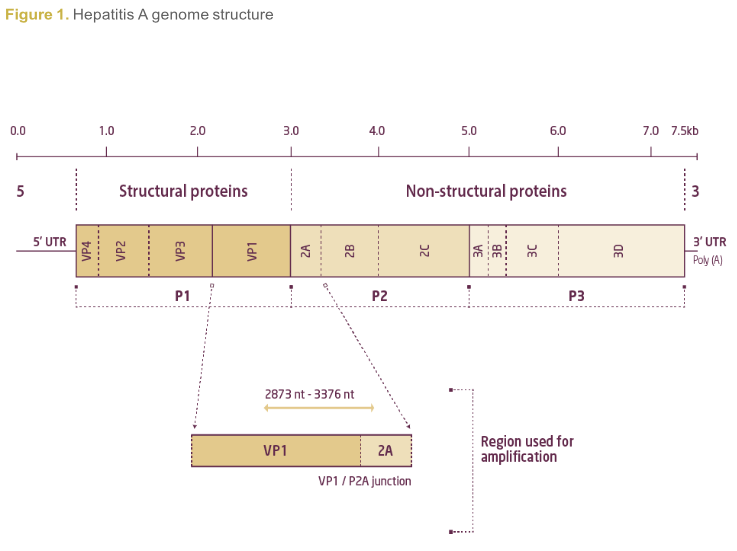
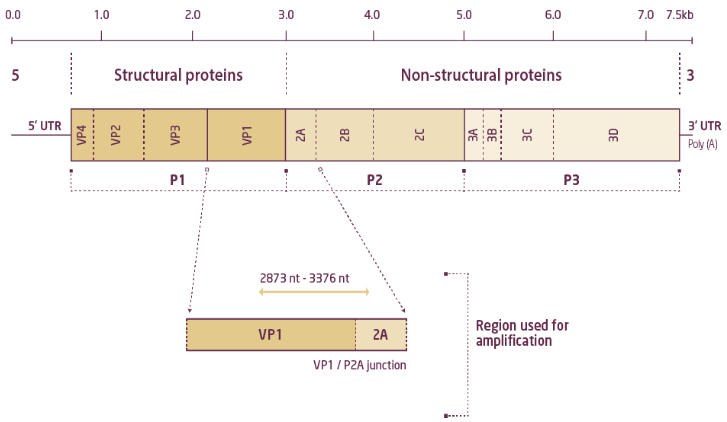
add in images

diff --git a/README.md b/README.md
@@ -8,7 +8,7 @@ Detect **H**epatitis **A** **V**irus **I**nfection **C**lusters from virus conse
 
 ![Pipeline](https://github.com/schultzm/havic/blob/docs/havic/data/pipeline_graph.svg?raw=true)
 
-![Amplicon](https://github.com/schultzm/havic/blob/docs/havic/data/VP1P2A.png?raw=true)
+![Amplicon](https://github.com/schultzm/havic/blob/docs/havic/data/VP1P2A.png?raw=true)("The HAV genome with HAVNET amplicon")
 
 ## Installation
 
